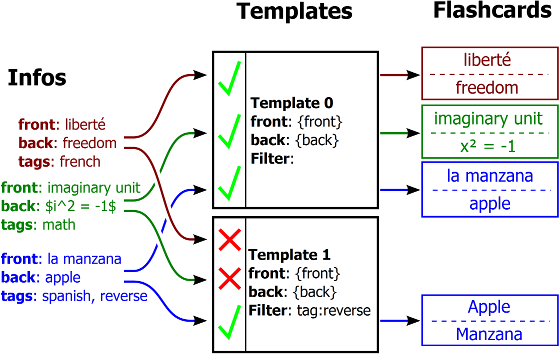
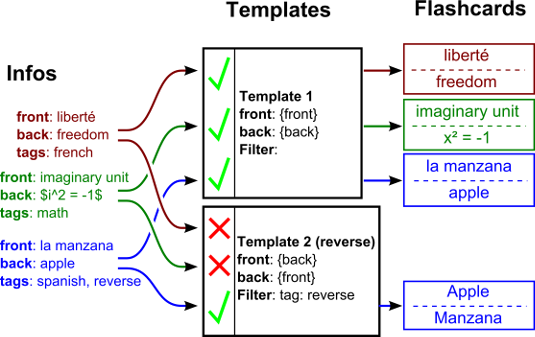
Minor cosmetics and readme fixes

diff --git a/jsx/x_Ginseng.js b/jsx/x_Ginseng.js
@@ -92,9 +92,12 @@ var Ginseng = React.createClass({
         var typeName = types[info.typeID].name;
         info["templateConditions"] = _.mapValues(types[info.typeID].templates, templ => filterInfo(templ.condition, info, typeName));
         info["profileConditions"] = _.mapValues(profiles, profile => filterInfo(profile.condition, info, typeName));
-        info["plannedIntervals"] = _.mapValues(info.reviews, review => {
-                var lastReview = _.last(review);
-                review.length > 0 ? (moment(lastReview.dueTime).diff(moment(lastReview.reviewTime))) : 0
+        info["plannedIntervals"] = _.mapValues(info.reviews,
+            review => {
+                if(review.length > 0){
+                    var lastReview = _.last(review);
+                    return moment(lastReview.dueTime).diff(moment(lastReview.reviewTime));
+                }
             }
         );
         return info;

diff --git a/jsx/InfoTypes.js b/jsx/InfoTypes.js
@@ -202,12 +202,12 @@ var InfoTypes = React.createClass({
                         Properties
                     </button>
 
-                    {Object.keys(selectedType.templates).map(templateID =>
+                    {Object.keys(selectedType.templates).map((templateID, index) =>
                         <button
                             key={templateID}
                             className={this.state.mode===templateID?"buttonGood":""}
                             onClick={this.setMode.bind(this, templateID)}>
-                            {"Template "+templateID}
+                            {"Template "+(index+1)}
                         </button>
                     )}
 

diff --git a/README.md b/README.md
@@ -52,10 +52,9 @@ The brain also likes to [link](http://gocognitive.net/interviews/effect-context-
 
 ## Philosophy / Goals
 Ginseng and the underlying data format are designed to be as open and robust as possible
-- All data is saved in a straightforward human-readable (and therefore hackable) [JSOM file](https://raw.githubusercontent.com/s9w/Ginseng/master/init_data.js).
-- The formatting of the info entries and the templates is done Markdown with optional LaTeX. Currently [marked](https://github.com/chjj/marked) is used for Markdown and [KaTeX](https://github.com/Khan/KaTeX) for LaTeX rendering as they seem to be the fastest choice.
+- All data is saved in a straightforward human-readable (and therefore hackable) [JSON file](https://raw.githubusercontent.com/s9w/Ginseng/master/init_data.js).
+- The formatting of the infos and templates is done in Markdown and LaTeX. Currently [marked](https://github.com/chjj/marked) is used for Markdown and [MathJax](https://github.com/mathjax/mathjax) for LaTeX rendering as they seem to be the fastest choice.
 - Dates/times are saved in [ISO 8601 format](http://en.wikipedia.org/wiki/ISO_8601).
 
 ## Plans / issues
-- KaTeX is very fast but currently doesn't even support `\mathbb` fonts or basic Math operators, let alone other packages etc. Add Mathjax as an option?
 - Write an Anki importer?
